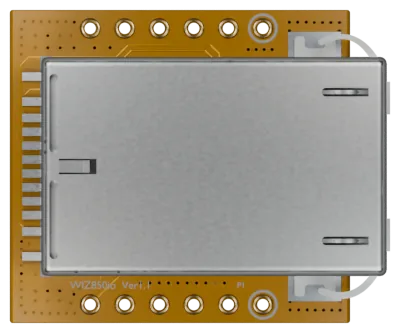
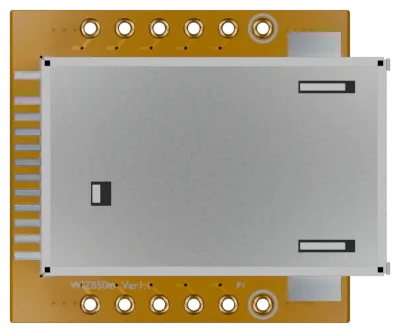
feat(parts): remodel three part renders without vendor CAD
The MIDI FeatherWing, WIZ850io and NLED Pixel Data Extender renders
imported meshes from vendor STEP files and layout from vendor board
files. Each is now modelled entirely in Blender from published
dimensions (Feather specification, WIZnet's dimension drawing, NLED's
datasheet) and product photographs, so none needs a third-party licence.

- Overlays drop the board-file and CAD sources; the MIDI FeatherWing
  cites the Feather specification. Render sizes and pad points are
  unchanged, so the Build Diagram pad equivalence still holds.
- THIRD_PARTY_NOTICES drops the two remodelled rows; todo lists the
  sixteen renders still to remodel.

diff --git a/THIRD_PARTY_NOTICES.md b/THIRD_PARTY_NOTICES.md
@@ -81,14 +81,13 @@ a CC BY-SA design file is shared under the same licence, not under
 | `public/parts/adafruit-bme280-environment-sensor.webp` | [Adafruit BME280 Breakout PCB](https://github.com/adafruit/Adafruit-BME280-Breakout-PCB), Ladyada for Adafruit Industries | CC BY-SA 3.0 | Outline, header, holes and part placement |
 | `public/parts/adafruit-ina219-current-sensor.webp` | [Adafruit INA219 Current Sensor PCB](https://github.com/adafruit/Adafruit-INA219-Current-Sensor-PCB), Ladyada for Adafruit Industries | CC BY-SA (the README names it; the repository has no licence file giving a version) | Outline, pads, holes, part and silkscreen positions |
 | `public/parts/adafruit-vl53l0x-distance-sensor.webp` | [Adafruit VL53L0X ToF Distance Sensor PCB](https://github.com/adafruit/Adafruit-VL53L0X-ToF-Distance-Sensor-PCB), Adafruit Industries | CC BY-SA 3.0 | Outline, pad row and labels, holes and part placement |
-| `public/parts/adafruit-midi-featherwing.webp` | [Adafruit MIDI FeatherWing PCB](https://github.com/adafruit/Adafruit-MIDI-FeatherWing-PCB), Ladyada for Adafruit Industries; [Adafruit CAD Parts, 4740 MIDI FeatherWing](https://github.com/adafruit/Adafruit_CAD_Parts/tree/main/4740%20MIDI%20FeatherWing), Copyright (c) 2016 Adafruit Industries | Board: CC BY-SA 3.0. 3D models: MIT | Board outline, pads, placement, silkscreen and traces; the PCB, DIN-5 sockets and optocoupler as 3D bodies |
 | `public/parts/seeed-grove-2ch-ssr.webp` | [Grove - 2-Channel Solid State Relay Eagle files](https://wiki.seeedstudio.com/Grove-2-Channel_Solid_State_Relay/), Seeed Technology | Not confirmed: the schematic frame points at CC BY-SA 4.0, and the board file carries no grant | Outline, holes, Grove socket, terminals and part positions |
 | `public/parts/seeed-grove-touch-sensor.webp` | [Grove - Touch Sensor Eagle files](https://wiki.seeedstudio.com/Grove-Touch_Sensor/), Seeed Technology | Not confirmed: no licence text in the files or on the wiki page | Pin order, electrode and mounting tabs |
-| `public/parts/wiz850io-ethernet-module.webp` | [WIZ850io Altium files](https://docs.wiznet.io/Product/ioModule/WIZ850io), WIZnet Co., Ltd. | Not confirmed: the download page states no licence | Outline, pads, tracks, vias and overlay; the MagJack as a 3D body from the board's embedded STEP model |
 
-The three renders whose licence is not confirmed need the vendor's permission,
-or a remodel from photographs and published dimensions, before a release
-ships them.
+Every render in this table is being remodelled from photographs and published
+dimensions, so that no board or part render depends on a vendor design file.
+Until then, the two Seeed renders, whose licence is not confirmed, must not ship
+in a release.
 
 ## FastLED and helper-vendored libraries
 

diff --git a/todo.md b/todo.md
@@ -99,10 +99,17 @@ more after the freeze.
   stays a draft, and its notes state the signing state. Signing itself is
   HW-17.
 - [ ] Complete the licence notices, and settle the AnimARTrix
-  non-commercial terms. The part renders drawn from vendor design files are
-  listed in `THIRD_PARTY_NOTICES.md` (2026-11-19). Left: confirm or replace
-  the Seeed 2-channel SSR, Seeed touch sensor and WIZ850io renders, whose
-  licence is not confirmed, and settle AnimARTrix with Stefan.
+  non-commercial terms. Every board and part render is to be project-made,
+  needing no third-party licence. An audit on 2026-11-19 found 19 that took
+  geometry from vendor files; the MIDI FeatherWing, WIZ850io and NLED Pixel
+  Data Extender are remodelled. Left to remodel from photographs and published
+  dimensions: BH1750, BME280, INA219, VL53L0X, Seeed 2-channel SSR, Seeed touch
+  sensor, MAX98357A and its stereo pair, UDA1334A and Mosfetti (vendor board
+  files or prints), and the ESP32-C3-DevKitM-1, ESP32-S2-DevKitC-1,
+  ESP32-S3-DevKitC-1, ESP32-C6-DevKitC-1, ESP32-C6-DevKitM-1 and
+  ESP32-H2-DevKitM-1 (chips placed from Espressif's PCB layout PDFs). Then drop
+  the render table from `THIRD_PARTY_NOTICES.md`, and settle AnimARTrix with
+  Stefan.
 - [x] Fill the CHANGELOG gaps.
 - [x] Start scripts run pip without `-c constraints.txt`.
 

diff --git a/docs/design/wired-ethernet.md b/docs/design/wired-ethernet.md
@@ -12,12 +12,12 @@ Wi-Fi, for Art-Net receive and NTP time sync.
 The **WIZnet WIZ850io** (`wiz850io-ethernet-module`): a W5500 with the RJ45
 MagJack and its transformer on a 23 x 25 mm board, two 1x6 headers 20.32 mm
 apart, 3.3 V only (up to about 141 mA with a 100 Mb/s link). It was chosen over
-the common blue W5500 board because WIZnet publishes its board file, so the
-model is source-backed like the Adafruit parts. The asset is built by
-`Scripts/generate_ethernet_parts.py` in the Blender workspace from WIZnet's
-Altium board (`WIZ850io_SCH_V110.PcbDoc`). The MagJack is the vendor's own
-STEP body, extracted from that board file and tessellated by
-`Scripts/step_to_stl.py`, because Blender cannot import STEP.
+the common blue W5500 board because WIZnet publishes a full dimension
+drawing. The asset is built by `Scripts/generate_ethernet_parts.py` in the
+Blender workspace. Every object is modelled there: the outline, header and
+jack positions come from WIZnet's published dimension drawing, and the
+MagJack is modelled from the product photograph. No WIZnet or jack-maker CAD
+is read.
 
 Only the jack is on the top side; the W5500, crystal, passives and both headers
 are underneath. The render is turned 90 degrees clockwise from WIZnet's
